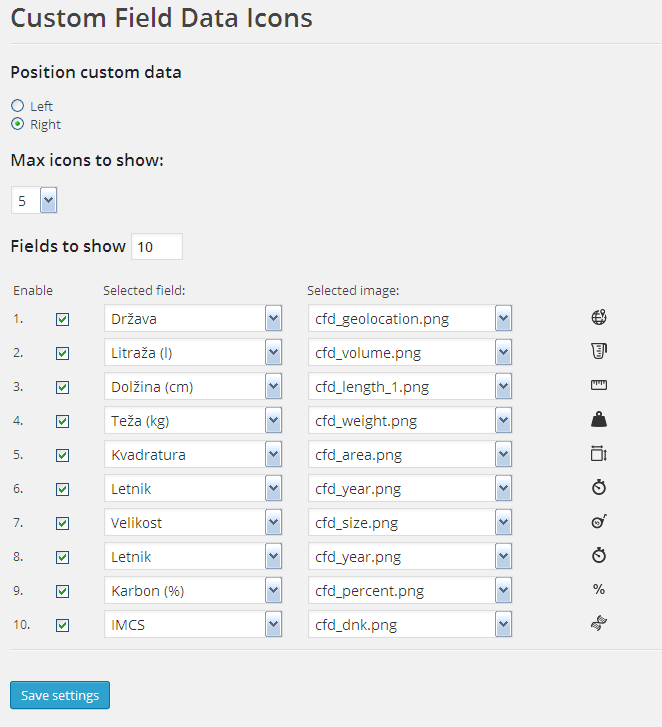
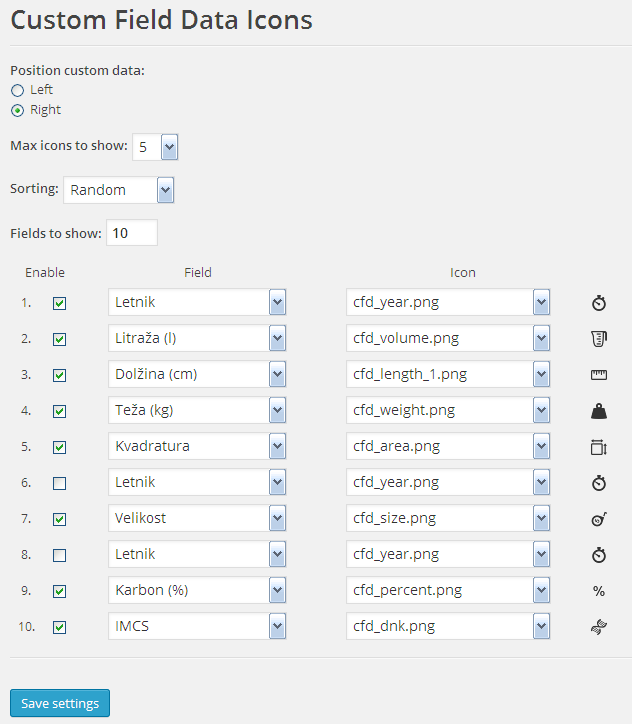
Added sorting options
git-svn-id: https://plugins.svn.wordpress.org/custom-field-data-icons/trunk@1213889 b8457f37-d9ea-0310-8a92-e5e31aec5664

diff --git a/ecpm-cfd.php b/ecpm-cfd.php
@@ -4,7 +4,7 @@ Plugin Name: Custom Field Data Icons
 Plugin URI: http://www.easycpmods.com
 Description: Custom Field Data Icons is a lightweight plugin that will display custom field data with icons on front page. It requires Classipress theme to be installed.
 Author: Easy CP Mods
-Version: 1.0.2
+Version: 1.1.0
 Author URI: http://www.easycpmods.com
 */
 
@@ -47,6 +47,7 @@ function ecpm_cfd_activate() {
     update_option( 'ecpm_cfd_position', 'left' );
     update_option( 'ecpm_cfd_show_icons', '5' );
     update_option( 'ecpm_cfd_max_fields', '10' );
+    update_option( 'ecpm_cfd_sort_fields', 'nosort' );
   }
 }
 
@@ -58,6 +59,7 @@ function ecpm_cfd_uninstall() {
   delete_option( 'ecpm_cfd_sel_images' );
   delete_option( 'ecpm_cfd_show_icons' );
   delete_option( 'ecpm_cfd_max_fields' );
+  delete_option( 'ecpm_cfd_sort_fields' );
 }
 
 function ecpm_cfd_plugins_loaded() {
@@ -103,12 +105,16 @@ function ecpm_cfd_getImageFilename($field_name){
   $ecpm_cfd_sel_fields = get_option('ecpm_cfd_sel_fields');
   $ecpm_cfd_sel_images = get_option('ecpm_cfd_sel_images');
   
-  $array_key = array_search($field_name, $ecpm_cfd_sel_fields);
-  
-  if ( $ecpm_cfd_enable_flds[$array_key] != 'on' || !$array_key )
-    return "off";
-  else
-    return $ecpm_cfd_sel_images[$array_key]; 
+  $arr_count = 0;
+  foreach ( $ecpm_cfd_sel_fields as $ecpm_cfd_sel_field ){
+    $arr_count++;
+    if ( $field_name == $ecpm_cfd_sel_field ){
+      return array($ecpm_cfd_sel_images[$arr_count-1], $arr_count);
+    }
+    
+  }
+  return array("", "off");
+   
 }
 
 // display some custom fields on the loop ad listing
@@ -128,34 +134,53 @@ function ecpm_get_loop_ad_details() {
   if ( ! $cp_results )
     return;
 
+  $ecpm_cfd_sort_fields = get_option('ecpm_cfd_sort_fields');
   $ecpm_cfd_show_icons = get_option('ecpm_cfd_show_icons');
   $showing_icon = 1;
-  
+  $ecpm_cfd_out_arr = array();
   $ecpm_cfd_position = get_option('ecpm_cfd_position');
   echo '<div id="custom-stats-'.$ecpm_cfd_position.'">';
 
   foreach ( $cp_results as $cp_result ) {
-    if ($showing_icon <= $ecpm_cfd_show_icons ) {
-      
-      $image_filename = ecpm_cfd_getImageFilename($cp_result->field_name);
-  
-      if ($image_filename != 'off') {
-        $post_meta_val = get_post_meta( $post->ID, $cp_result->field_name, true );
-        if ( empty( $post_meta_val ) )
-          continue;
+    $ecpm_cfd_ret_value = ecpm_cfd_getImageFilename($cp_result->field_name);
+    $cfd_image_filename = $ecpm_cfd_ret_value[0];
+    $cfd_image_index = $ecpm_cfd_ret_value[1];
     
-        $args = array( 'value' => $post_meta_val, 'label' => $cp_result->field_label, 'id' => $cp_result->field_name, 'class' => '' );
-        $args = apply_filters( 'cp_ad_details_' . $cp_result->field_name, $args, $cp_result, $post, $location );
+    if ( $cfd_image_index != 'off' ) {
+      $post_meta_val = get_post_meta( $post->ID, $cp_result->field_name, true );
+      if ( empty( $post_meta_val ) )
+        continue;
+  
+      $args = array( 'value' => $post_meta_val, 'label' => $cp_result->field_label, 'id' => $cp_result->field_name, 'class' => '' );
+      $args = apply_filters( 'cp_ad_details_' . $cp_result->field_name, $args, $cp_result, $post, $location );
 
-        $showing_icon++;
-        $image_html = '';
-        if ( $image_filename )
-           $image_html = '<img class="custom-stats-icon" src="'. plugins_url('images/'. $image_filename, __FILE__). '" title="'. esc_html( translate( $args['label'], APP_TD ) ).'" width="16" height="16">';
-           
-        if ( $args )
-          echo '<span class="custom-stats">'.$image_html . $args['value'] . '</span>';
+      $image_html = '';
+      if ( $cfd_image_filename )
+         $image_html = '<img class="custom-stats-icon" src="'. plugins_url('images/'. $cfd_image_filename, __FILE__). '" title="'. esc_html( translate( $args['label'], APP_TD ) ).'" width="16" height="16">';
+         
+      if ( $args ) {
+        $ecpm_cfd_out_arr[$cfd_image_index-1] = '<span class="custom-stats">'.$image_html . $args['value'] . '</span>';
+
+        if ( in_array($ecpm_cfd_sort_fields, array('nosort', '') ) )
+          echo $ecpm_cfd_out_arr[$cfd_image_index-1]; 
       }
     }
+  }
+  
+  if ( in_array($ecpm_cfd_sort_fields, array('random', 'number') ) ) {
+    if ( $ecpm_cfd_sort_fields == 'random' ) 
+      shuffle($ecpm_cfd_out_arr);
+    else
+      ksort($ecpm_cfd_out_arr);
+        
+    foreach ( $ecpm_cfd_out_arr as $arr_value ) {
+      if ($showing_icon <= $ecpm_cfd_show_icons ) {
+        if ( $arr_value ) {
+          echo $arr_value;
+          $showing_icon++;
+        }
+      }
+    }   
   }
   echo '</div>';
 }
@@ -180,6 +205,11 @@ function ecpm_cfd_settings_page_callback() {
         $ecpm_cfd_max_fields = get_option('ecpm_cfd_max_fields');
       else
         $ecpm_cfd_max_fields = $_POST[ 'ecpm_cfd_max_fields' ];    
+    
+    if ( !isset($_POST[ 'ecpm_cfd_sort_fields' ]) )
+        $ecpm_cfd_sort_fields = get_option('ecpm_cfd_sort_fields');
+      else
+        $ecpm_cfd_sort_fields = $_POST[ 'ecpm_cfd_sort_fields' ];    
     
     if ( !isset($_POST[ 'ecpm_cfd_show_icons' ]) )
         $ecpm_cfd_show_icons = '';
@@ -210,6 +240,7 @@ function ecpm_cfd_settings_page_callback() {
     update_option( 'ecpm_cfd_sel_fields', $ecpm_cfd_sel_fields ); 
     update_option( 'ecpm_cfd_sel_images', $ecpm_cfd_sel_images );
     update_option( 'ecpm_cfd_max_fields', $ecpm_cfd_max_fields );
+    update_option( 'ecpm_cfd_sort_fields', $ecpm_cfd_sort_fields );
     
     ?>
         <div id="message" class="updated">
@@ -224,35 +255,50 @@ function ecpm_cfd_settings_page_callback() {
   $ecpm_cfd_sel_fields = get_option('ecpm_cfd_sel_fields');
   $ecpm_cfd_sel_images = get_option('ecpm_cfd_sel_images');
   $ecpm_cfd_max_fields = get_option('ecpm_cfd_max_fields');
-  
+  $ecpm_cfd_sort_fields = get_option('ecpm_cfd_sort_fields');
   ?>
   
 		<div id="cfdsetting">
-			<h1><?php echo _e('Custom Field Data Icons', ECPM_DDC); ?></h1>
+			<h1><?php echo _e('Custom Field Data Icons', ECPM_CFD); ?></h1>
   			<form id='cfdsettingform' method="post" action="">
           <hr>
-          <h3><?php echo _e('Position custom data', ECPM_CFD); ?></h3>
-          <Input type="radio" Name="ecpm_cfd_position" value="left" <?php echo ($ecpm_cfd_position == 'left' ? 'checked':'') ;?>><?php _e('Left', ECPM_CFD);?>
+          <p>
+          <strong><?php echo _e('Position custom data:', ECPM_CFD); ?></strong>
+          <br><Input type="radio" Name="ecpm_cfd_position" value="left" <?php echo ($ecpm_cfd_position == 'left' ? 'checked':'') ;?>><?php _e('Left', ECPM_CFD);?>
           <br><Input type="radio" Name="ecpm_cfd_position" value="right" <?php echo ($ecpm_cfd_position == 'right' ? 'checked':'') ;?>><?php _e('Right', ECPM_CFD);?>
+          </p>
 
-          <h3><?php echo _e('Max icons to show:', ECPM_DDC); ?></h3>
+          <p>
+          <strong><?php echo _e('Max icons to show:', ECPM_CFD); ?></strong>
           <select name="ecpm_cfd_show_icons">
             <?php
             for ($i = 1; $i<=10; $i++)
               echo '<option value="'.$i.'"'. ($ecpm_cfd_show_icons == $i ? 'selected':'') .">".$i."</option>";
             ?>
           </select>
+          </p>
 
-          <br>
-          <h3><?php echo _e('Fields to show', ECPM_CFD); ?>
+          <p>
+          <strong><?php echo _e('Sorting:', ECPM_CFD); ?></strong>
+          <select name="ecpm_cfd_sort_fields">
+             <option value="nosort" <?php echo ($ecpm_cfd_sort_fields == 'nosort' ? 'selected':'') ;?>>No sorting</option>
+             <option value="number" <?php echo ($ecpm_cfd_sort_fields == 'number' ? 'selected':'') ;?>>By numbers</option>
+             <option value="random" <?php echo ($ecpm_cfd_sort_fields == 'random' ? 'selected':'') ;?>>Random</option>
+          </select>
+          </p>
+
+          <p>
+          <strong><?php echo _e('Fields to show:', ECPM_CFD); ?>
              <Input type='text' size='2' Name ='ecpm_cfd_max_fields' value='<?php echo $ecpm_cfd_max_fields;?>'>
-          </h3>
+          </strong>
+          </p>
 
-          <table width="600px">
+          <p>
+          <table width="600px" cellspacing="0" cellpadding="3" border="0">
             <tr>
-              <td width="100px" colspan="2"><?php echo _e('Enable', ECPM_CFD); ?></td>
-              <td width="200px"><?php echo _e('Selected field:', ECPM_CFD); ?></td>
-              <td width="300px"><?php echo _e('Selected image:', ECPM_CFD); ?></tr>
+              <td width="50px" colspan="2" align="center"><?php echo _e('Enable', ECPM_CFD); ?></td>
+              <td align="center"><?php echo _e('Field', ECPM_CFD); ?></td>
+              <td align="center" colspan="2"><?php echo _e('Icon', ECPM_CFD); ?></td>
             </tr>
           <?php 
             
@@ -263,9 +309,9 @@ function ecpm_cfd_settings_page_callback() {
               $item = 0;
               ?>
               <tr>
-              <td><?php echo $i+1 .". ";?></td>
-              <td><Input type='checkbox' Name='ecpm_cfd_enable_fld_<?php echo $i;?>' <?php echo ($ecpm_cfd_enable_flds[$i] == 'on' ? 'checked':'') ;?> ></td>
-              <td>
+              <td align="center"><?php echo $i+1 .". ";?></td>
+              <td align="center"><Input type='checkbox' Name='ecpm_cfd_enable_fld_<?php echo $i;?>' <?php echo ($ecpm_cfd_enable_flds[$i] == 'on' ? 'checked':'') ;?> ></td>
+              <td align="center">
               <select name="ecpm_cfd_field_<?php echo $i;?>">
                 <option value="" <?php echo (!$ecpm_cfd_sel_fields[$i] ? 'selected':'') ;?>>-- No field --</option>
               <?php
@@ -278,7 +324,7 @@ function ecpm_cfd_settings_page_callback() {
               ?>
               </select>
               </td>
-              <td>
+              <td align="center">
               <select name="ecpm_cfd_image_<?php echo $i;?>" >
                 <option value="" <?php echo (!$ecpm_cfd_sel_images[$i] ? 'selected':'') ;?>>-- No image --</option>
               <?php
@@ -291,6 +337,8 @@ function ecpm_cfd_settings_page_callback() {
 							  } 
               ?>
               </select>
+              </td>
+              <td align="center">
               <?php
               if ( $ecpm_cfd_sel_images[$i] ) { ?>
                 <span class="cfd-img-admin"><img id="ecpm_image_<?php echo $i;?>" src="<?php echo plugins_url('images/'. $ecpm_cfd_sel_images[$i], __FILE__);?>"></span>
@@ -305,6 +353,7 @@ function ecpm_cfd_settings_page_callback() {
           
           </table>
           
+          </p>
           <hr> 
           
   				<p class="submit">
